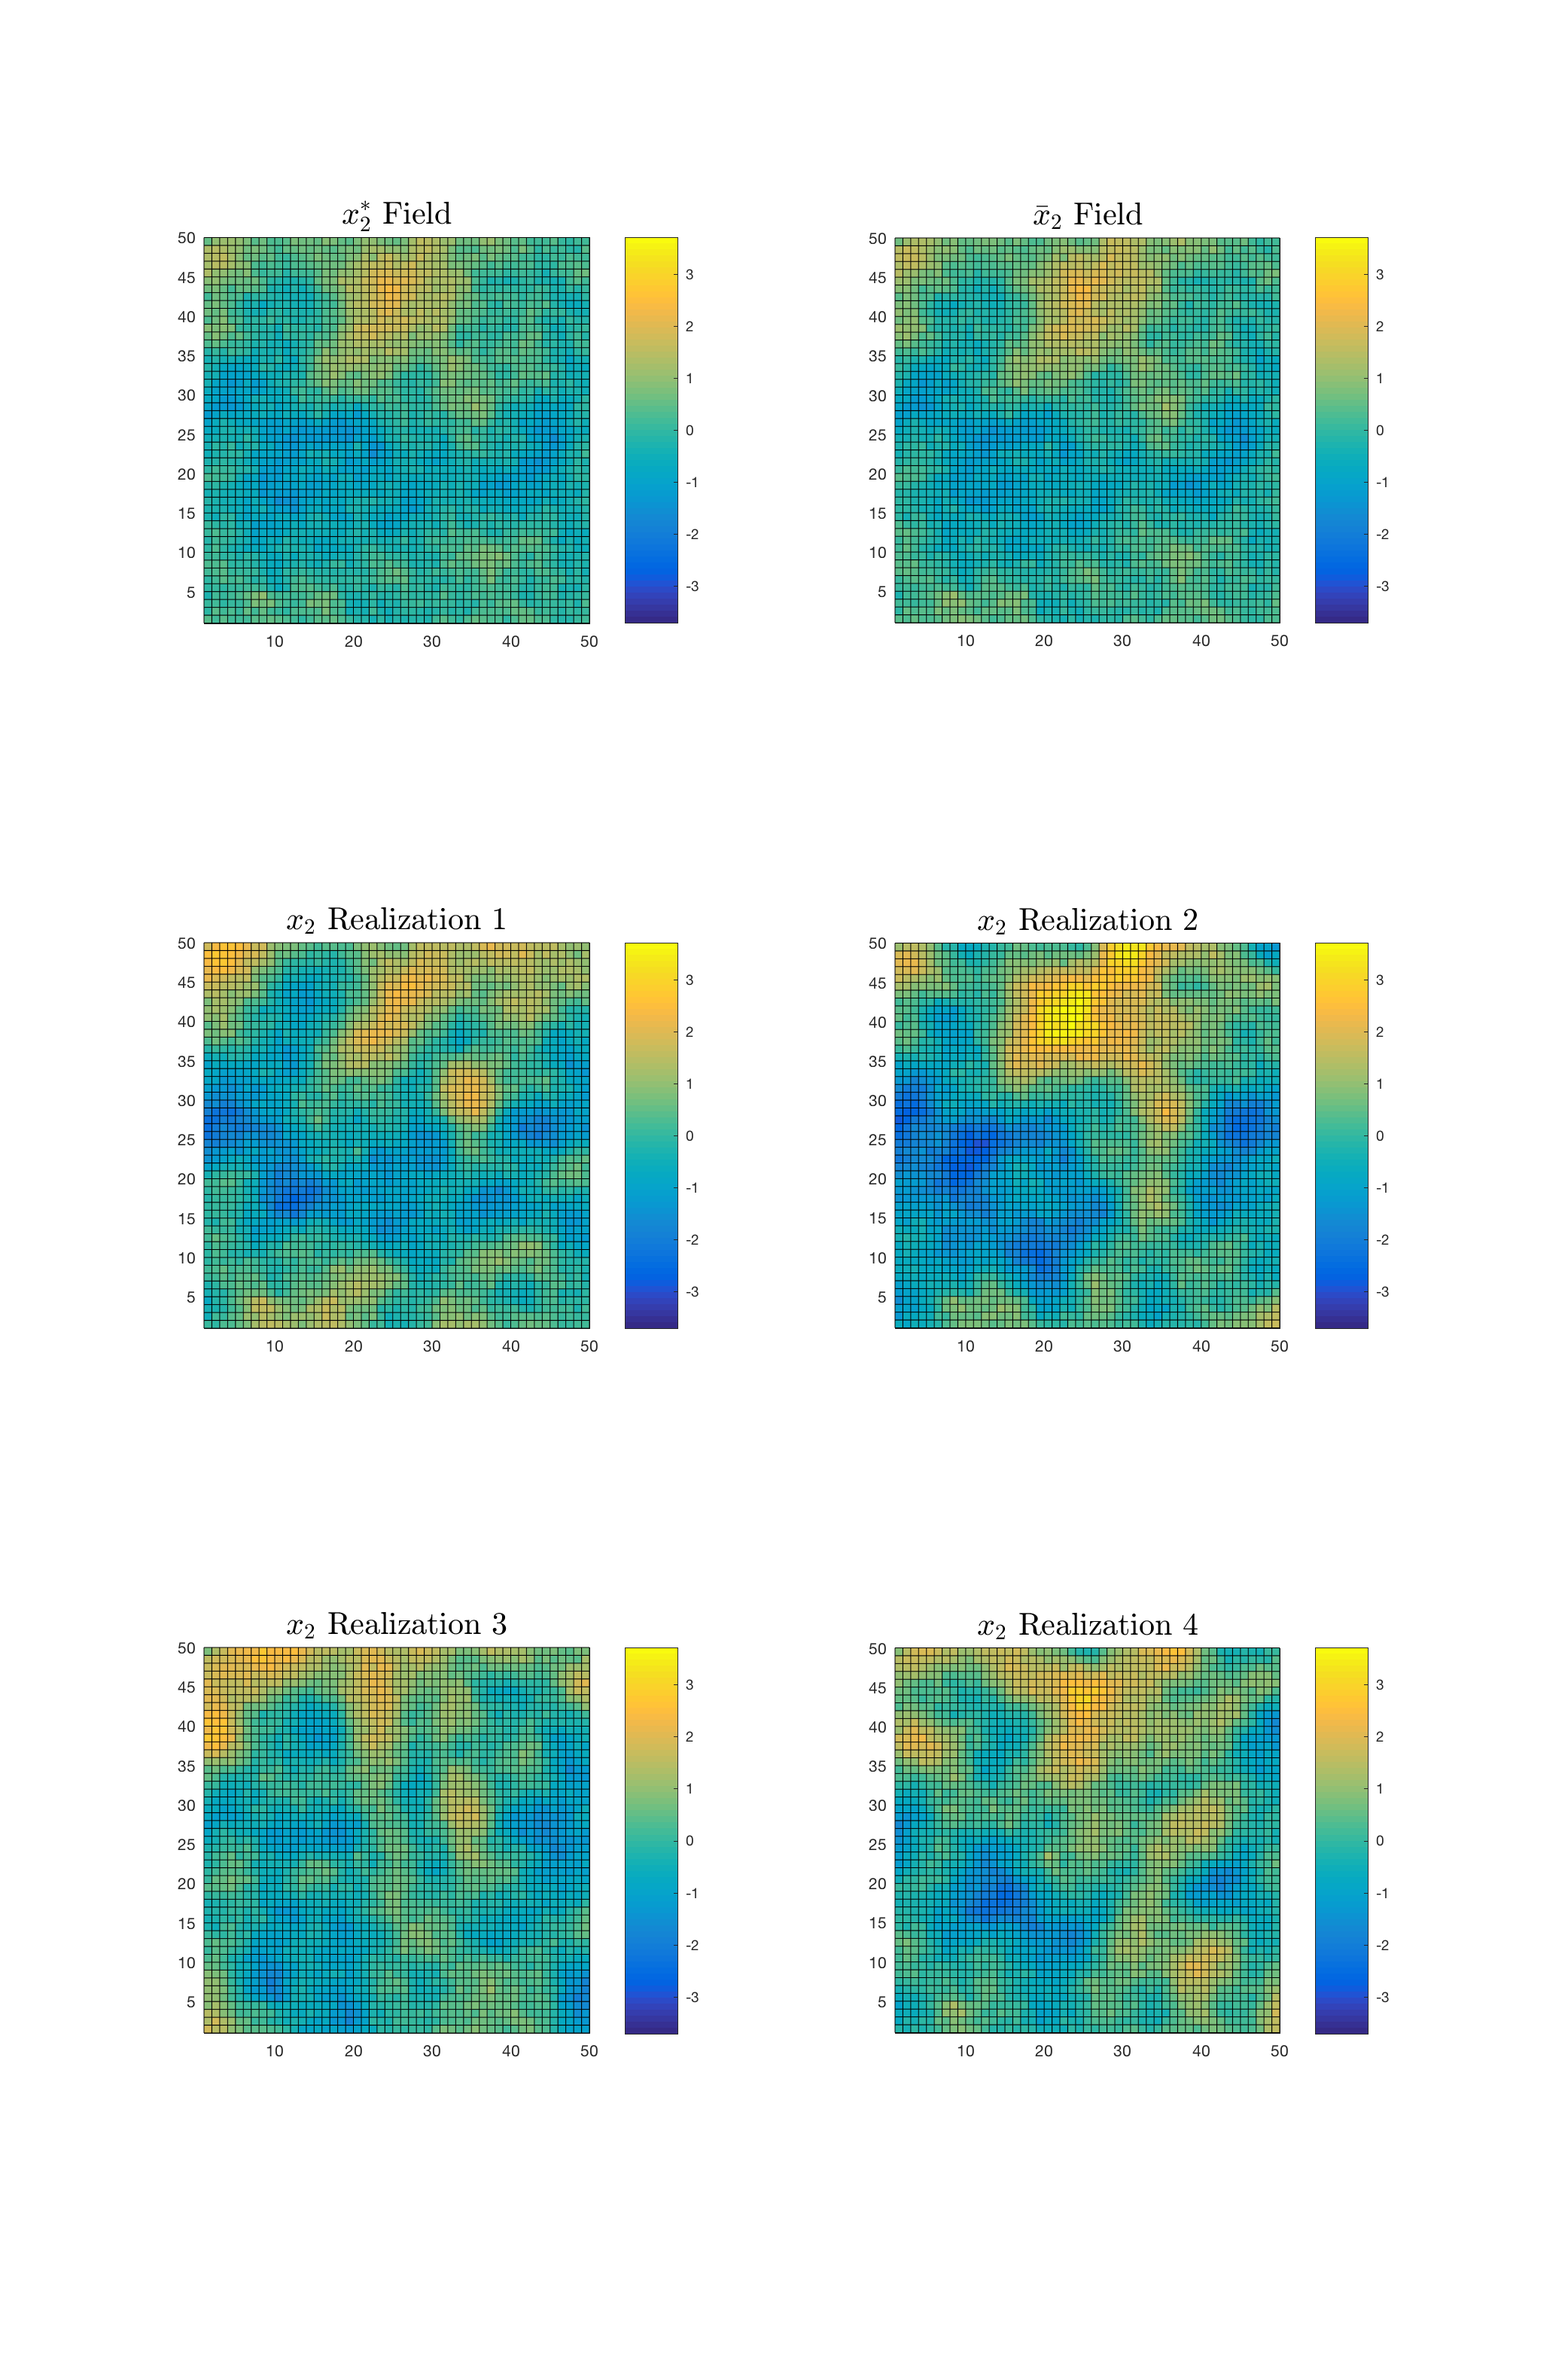
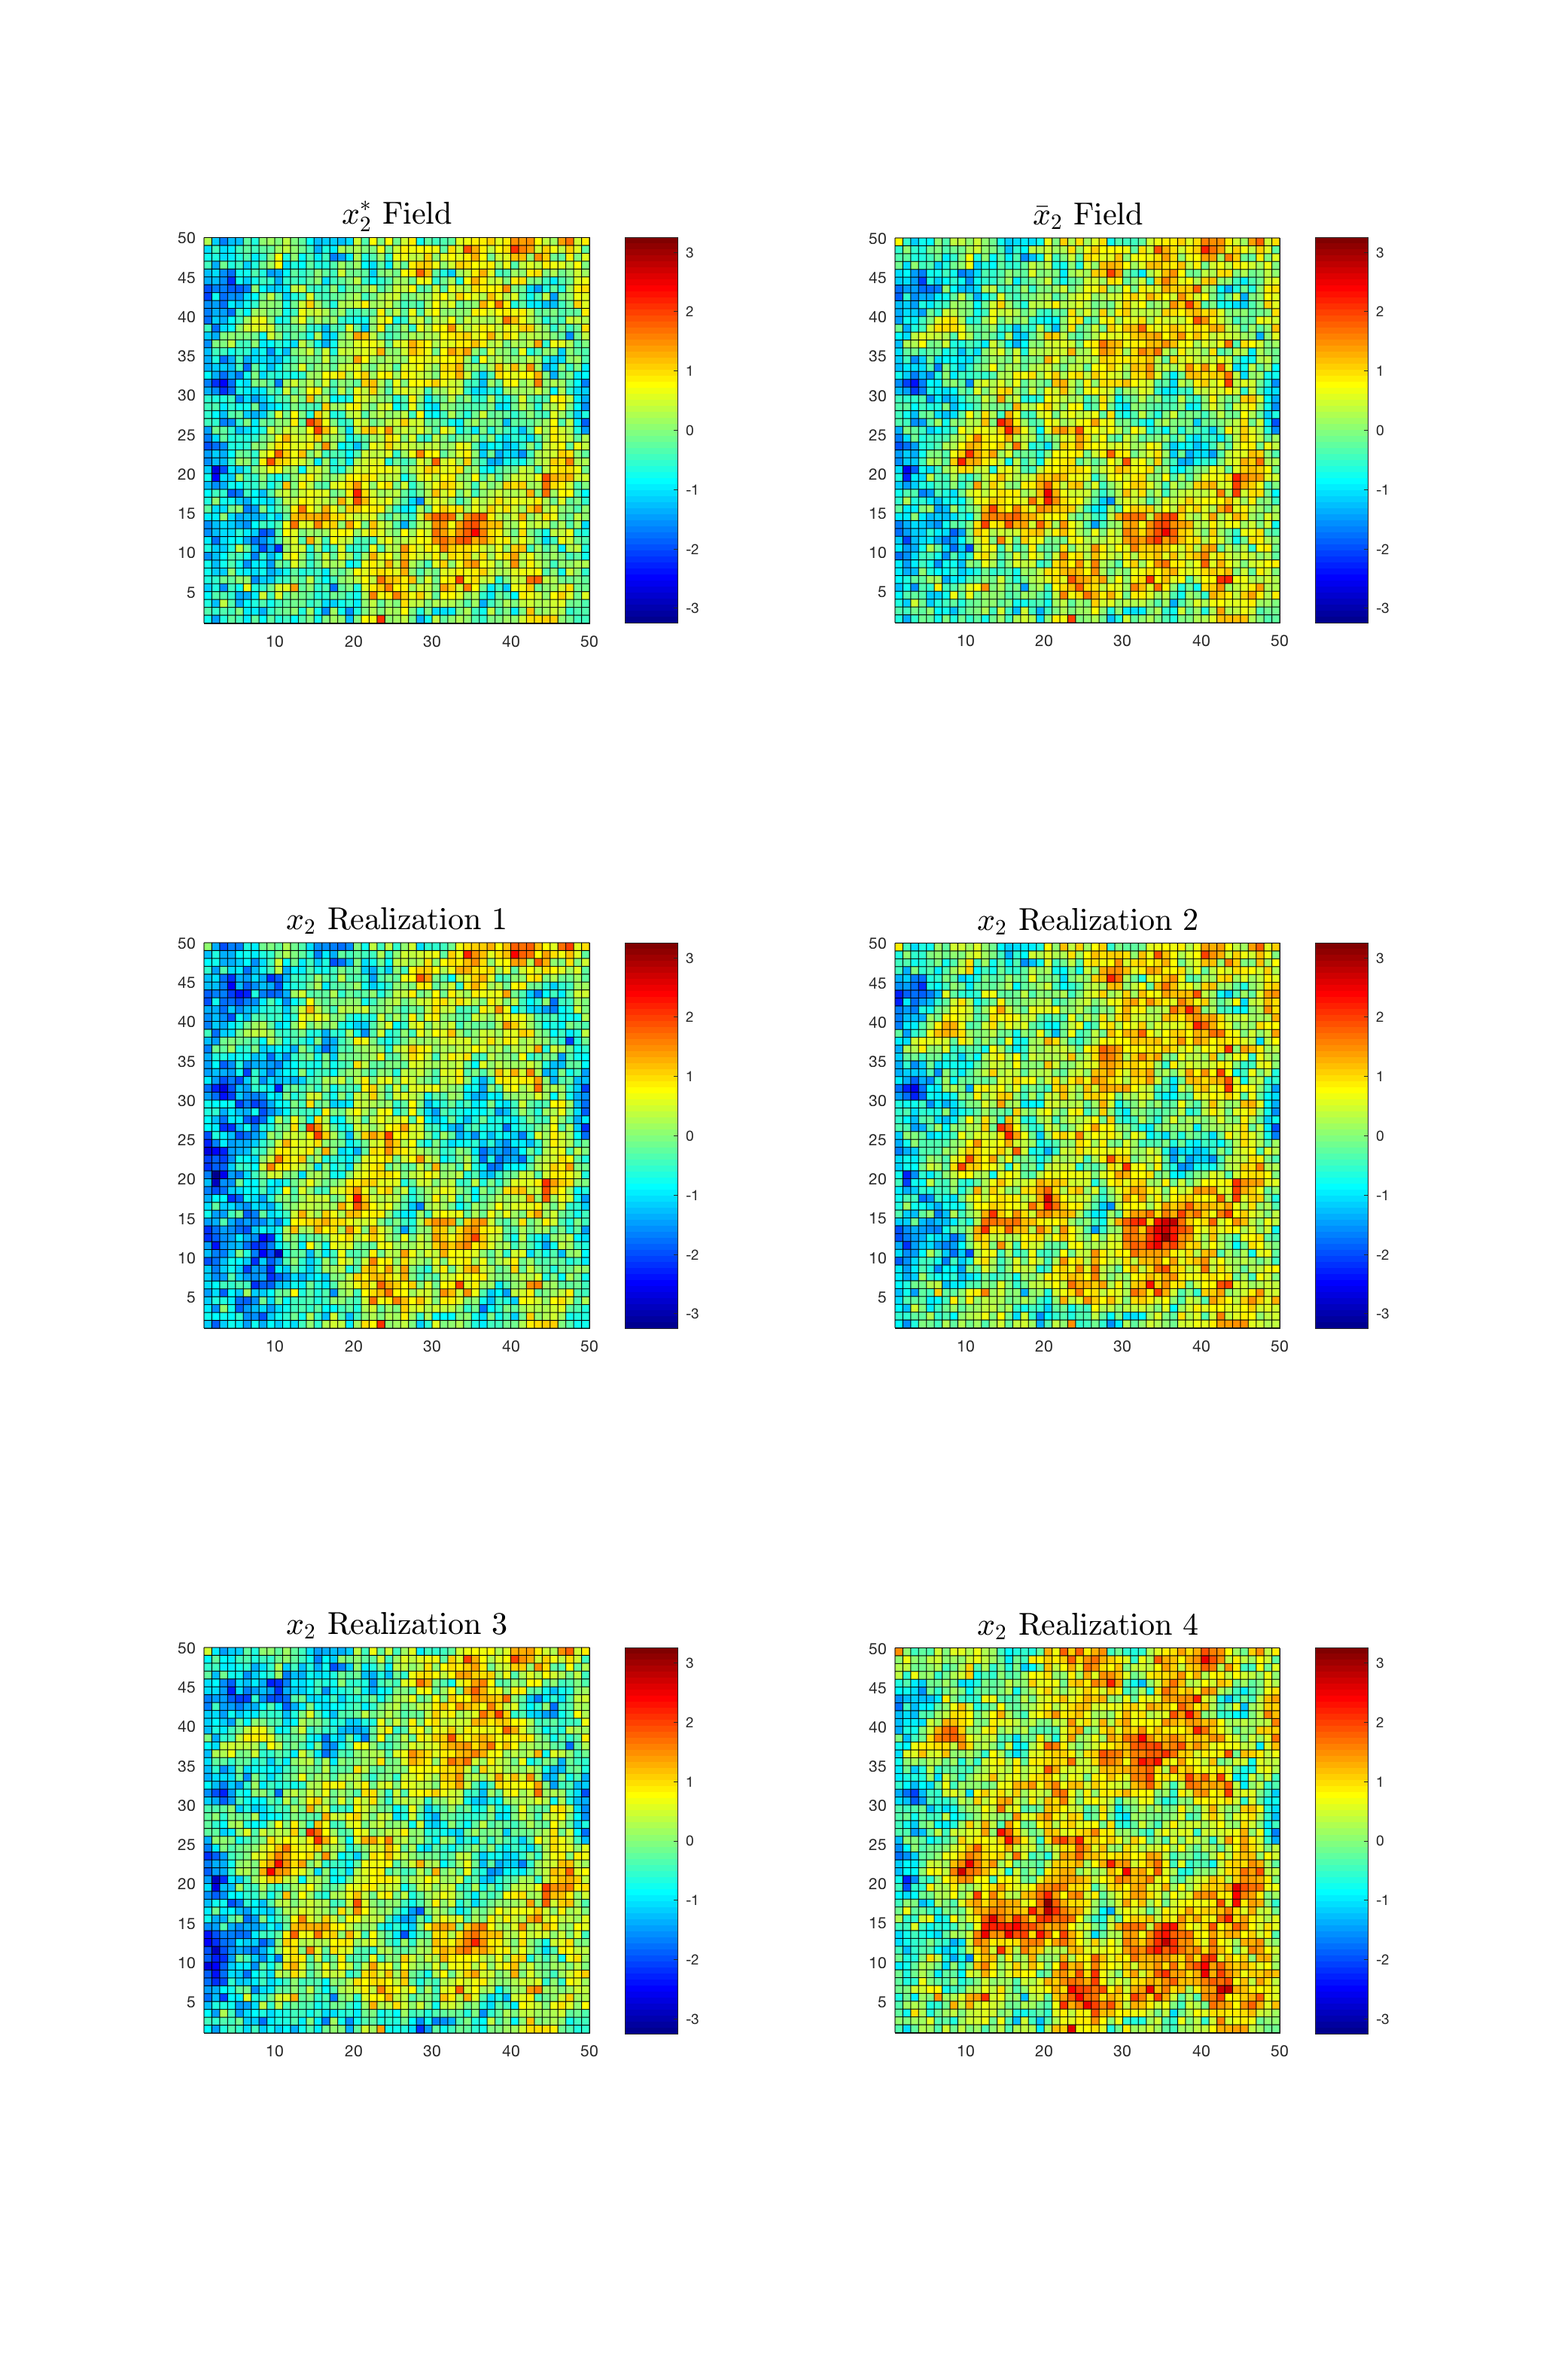
final tweaks and settings to pass off to dorit

diff --git a/code/makePlots.m b/code/makePlots.m
@@ -26,8 +26,8 @@ dist = reshape(sqrt((x1-x1').^2+(y1-y1').^2),n,1);
 checkExp = figure('visible','off','Position', [10, 10, 1200, 600]);
 subplot(1,2,1);
 hold;
-plot(d(1:nx),'-ok');
-plot(d(1:nx).*lambda,'-or')
+plot(d(1:Nlambda),'-ok');
+plot(d(1:Nlambda).*lambda,'-or')
 legend('Raw eigenvalues', 'Lambda modfied eigenvalues');
 xlabel('Eigenvalue');
 ylabel('Magnitude');
@@ -48,23 +48,27 @@ print(checkExp,sprintf('%s/checkExp.png',plotDirectory),'-dpng')
 
 % Recreate Figure (3.d) in Paper
 singlePointCorr = figure('visible','off','Position', [10, 10, 1200, 600]);
-q = ceil(sqrt(n));
-D = sqrt(diag(SigSqr));
+
+D = sqrt(diag(CTrue));
 CorrMat = inv(diag(D)) * SigSqr * inv(diag(D))';
+
 subplot(1,2,1)
 PlotMat = reshape(CorrMat(:,20),q,q);
 tempSort = sort(PlotMat(:));
 plottingRange = [tempSort(1),tempSort(n-1)];
 pcolor(PlotMat)
+colormap(jet)
 caxis(plottingRange)
 title('Correlation to single point','interpreter','latex','FontSize',20)
 colorbar
 axis square
+
 subplot(1,2,2)
 PlotMat = reshape(CorrMat(:,1625),q,q);
 tempSort = sort(PlotMat(:));
 plottingRange = [tempSort(1),tempSort(n-1)];
 pcolor(PlotMat)
+colormap(jet)
 caxis(plottingRange)
 title('Correlation to single point','interpreter','latex','FontSize',20)
 colorbar
@@ -85,6 +89,7 @@ colorbar
 axis square
 subplot(3,2,2)
 pcolor(reshape(XensembleMean(:,1),q,q))
+colormap(jet)
 title('$$\bar x_1$$ Field','interpreter','latex','FontSize',20)
 caxis([-zRange,zRange])
 colorbar
@@ -92,6 +97,7 @@ axis square
 for i=1:4
 	subplot(3,2,i+2)
 	pcolor(reshape(XensembleSubMat(:,i),q,q))
+	colormap(jet)
 	title(sprintf('$$x_1$$ Realization %d', i),'interpreter','latex','FontSize',20)
 	caxis([-zRange,zRange])
 	colorbar
@@ -106,6 +112,7 @@ zRange = max(max(abs(XensembleSubMat)));
 
 subplot(3,2,1)
 pcolor(reshape(Xstar(:,2),q,q))
+colormap(jet)
 title('$$x^*_2$$ Field','interpreter','latex','FontSize',20)
 caxis([-zRange,zRange])
 colorbar
@@ -119,6 +126,7 @@ axis square
 for i=1:4
 	subplot(3,2,i+2)
 	pcolor(reshape(XensembleSubMat(:,i),q,q))
+	colormap(jet)
 	title(sprintf('$$x_2$$ Realization %d', i),'interpreter','latex','FontSize',20)
 	caxis([-zRange,zRange])
 	colorbar
@@ -131,22 +139,29 @@ print(xGen2,sprintf('%s/xGeneration2.png',plotDirectory),'-dpng')
 xProg = figure('visible','off','Position', [10, 10, 1000, 1000]);
 subplot(2,2,1)
 pcolor(reshape(Xstar(:,1),q,q))
-title('$$X^*_1$$ Field','interpreter','latex','FontSize',20)
+colormap(jet)
+title('$$x^*_1$$ Field','interpreter','latex','FontSize',20)
 colorbar
 axis square
+
 subplot(2,2,2)
 pcolor(reshape(XensembleMean(:,1),q,q))
-title('$$\bar X$$ Field','interpreter','latex','FontSize',20)
+colormap(jet)
+title('$$\bar x_1$$ Field','interpreter','latex','FontSize',20)
 colorbar
 axis square
+
 subplot(2,2,3)
 pcolor(reshape(U(:,1),q,q))
-title('$$U$$ Field','interpreter','latex','FontSize',20)
+colormap(jet)
+title('$$u_1^{(1)}$$ Field','interpreter','latex','FontSize',20)
 colorbar
 axis square
+
 subplot(2,2,4)
 pcolor(reshape(XensembleMean(:,1),q,q))
-title('$$X_1 = X^*_1 + U$$ Field','interpreter','latex','FontSize',20)
+colormap(jet)
+title('$$x_1^{(1)} = x^*_1 + u_1^{(1)}$$ Field','interpreter','latex','FontSize',20)
 colorbar
 axis square
 print(xProg,sprintf('%s/xprogression.png',plotDirectory),'-dpng')
@@ -154,18 +169,20 @@ print(xProg,sprintf('%s/xprogression.png',plotDirectory),'-dpng')
 
 
 % the y sum progression
-zRange = max(max(abs(Yobs)));
+zRange = max(max(abs(y)));
 yProg = figure('visible','off','Position', [10, 10, 1000, 1500]);
 title('Y Generation Progression')
 subplot(3,2,1)
-pcolor(reshape(Ystar,q,q))
+pcolor(reshape(ystar,q,q))
+colormap(jet)
 title('$$y^* = x^* \beta$$ (True Field)','interpreter','latex','FontSize',20)
 colorbar
 axis square
 caxis([-zRange,zRange])
 
 subplot(3,2,2)
-pcolor(reshape(Yobs,q,q))
+pcolor(reshape(y,q,q))
+colormap(jet)
 title('$$y = \bar x \beta + \nu$$ (Observed Field)','interpreter','latex','FontSize',20)
 colorbar
 axis square
@@ -173,6 +190,7 @@ caxis([-zRange,zRange])
 
 subplot(3,2,3)
 pcolor(reshape(Xstar(:,1),q,q))
+colormap(jet)
 title('$$x^*_1$$ Field','interpreter','latex','FontSize',20)
 colorbar
 axis square
@@ -180,6 +198,7 @@ caxis([-zRange,zRange])
 
 subplot(3,2,4)
 pcolor(reshape(XensembleMean(:,1),q,q))
+colormap(jet)
 title('$$\bar x_1$$ Field','interpreter','latex','FontSize',20)
 colorbar
 axis square
@@ -187,6 +206,7 @@ caxis([-zRange,zRange])
 
 subplot(3,2,5)
 pcolor(reshape(Xstar(:,2),q,q))
+colormap(jet)
 title('$$x^*_2$$ Field','interpreter','latex','FontSize',20)
 colorbar
 axis square
@@ -195,6 +215,7 @@ caxis([-zRange,zRange])
 
 subplot(3,2,6)
 pcolor(reshape(XensembleMean(:,2),q,q))
+colormap(jet)
 title('$$\bar x_2$$ Field','interpreter','latex','FontSize',20)
 colorbar
 axis square

diff --git a/code/parameterList.m b/code/parameterList.m
@@ -11,7 +11,7 @@ plotDirectory ='figures';
 dataDirectory ='output';
 
 % set seed for reproducibility
-seed = 125;
+seed = 1231531;
 
 %%%%%%%%%%%%%%%%%%%%%%%%%%%%%
 % Problem Size/Dimensionality
@@ -32,12 +32,10 @@ L0 = 1000;
 M=2;
 
 % number of ensembles (eventually length M)
-L = 25;
+L = 5;
 
 % true regression parameters
 betaTrue = ones(M,1);
-
-
 
 %%%%%%%%%%%%%%%%%%%%%%%%%%%%%%%%%
 % (M1) Forced Response Simulation
@@ -45,12 +43,11 @@ betaTrue = ones(M,1);
 % currently using a matern spatial field as the true forced response
 
 % control the shape of the Matern for the true focings Xstar
-rangeX = [1,1/3];
-smoothnessX = [1,0.5];
+rangeX = [1.5,1/2];
+smoothnessX = [1.5,0.25];
 
-% scale the magnitudes of the foreced responses
-scaleX = [2,0.7];
-
+% set the relative magnitude of the forced responses
+magnitudeX = [1,1];
 
 %%%%%%%%%%%%%%%%%%%%%%%%%%%%%%%%%%%%%
 % (M2) Climate Variability Simulation
@@ -61,13 +58,13 @@ alphaC = 1;
 
 % currently using a eigen-perturbed exponential kernel
 % kernel scale
-dExp = 0.25;
+dExp = 5;
 
 % eigenvalue cutoff for variability generation
-nx = 100;    
+Nlambda = 100;    
 
 % the random factor e-value modification
-rng(250); lambda = unifrnd(0.5,1.5,nx,1).^2; % to replicate the figures
+rng(251); lambda = exp(unifrnd(-2.5,2.5,Nlambda,1)); 
 
 % whitening parameter for the climate variability covariance (0 is iid)
 delta = 1;
@@ -81,4 +78,4 @@ delta = 1;
 Nobs = 100;
 
 % measurement error on the observed Y
-sigmaW = repmat(0.25,1,n);
+rho = repmat(0.25,1,n);

diff --git a/code/generateSimulation.m b/code/generateSimulation.m
@@ -14,7 +14,7 @@ rng(seed)
 
 % interchangable code for different covariance generation schemes
 [x,y,Vin,din] = generateRecBasis(n,dExp);
-[V, d, Sig, SigSqr] = generateCovExact(n, nx, lambda, delta,Vin,din);
+[V, d, Sig, SigSqr] = generateCovExact(n, Nlambda, lambda, delta,Vin,din);
 
 % assign C for the simulation
 CTrue = SigSqr;
@@ -32,12 +32,17 @@ end
 
 % center and (standarize?) the xstars
 XstarCentered = (XstarRaw - repmat(mean(XstarRaw), size(XstarRaw,1), 1));
-XstarStd = XstarCentered;
 
-xScaleFactor = kron(scaleX,ones(n,1));
+xNorm = zeros(1,M);
+
+for i=1:M
+	xNorm(i) =  norm(XstarCentered(:,i));
+end
+
+xScalingMatrix = diag( (magnitudeX .* (xNorm/max(xNorm))).^(-1));
 
 % set the Xstar matrix for the simulation
-Xstar = xScaleFactor .* XstarStd;
+Xstar = XstarCentered * xScalingMatrix;
 
 %%%%%%%%%%%%%%%%%%%%%%%%%%%%%%%%%%%%%%%%%%%%%%%%%%%%%%%%%%%%%
 %% Simulate output given CTrue, Xstar, parameterList 
@@ -67,7 +72,7 @@ y = Xstar * betaTrue + u;
 
 % generate the observed climate response Yobs
 yExpand = kron(y,ones(1,Nobs));
-epsilon = mvnrnd(zeros(n,1), diag(sigmaW),Nobs)';
+epsilon = mvnrnd(zeros(n,1), diag(rho),Nobs)';
 
 yobs    = yExpand + epsilon;
 

diff --git a/code/presentationExperiments/maternExperimentation.m b/code/presentationExperiments/maternExperimentation.m
@@ -10,14 +10,12 @@ L=1; L0=1;
 % change the parameters of interest for the forced responses
 
 % control the shape of the Matern for the true focings Xstar
-alphax = [2,4];
-smoothnessx = [1.5,0.5];
+rangeX = [1.5,1/2];
+smoothnessX = [1.5,0.25];
 
 % scale the magnitudes of the foreced responses
-xscale = [1,1];
+magnitudeX = [1,1];
 
-% scaling factors as in Smith et al. 20xx
-gammaC = [0.5,0.6];
 
 seed=1231531;
 
@@ -28,19 +26,13 @@ generateSimulation
 %% First, reasonable, attempt at a hands-off method for balancing the magnitudes
 %% of the forced responses. 
 
-% get the average square of the fields
-x1Mag = mean(Xstar(:,1).^2);
-x2Mag = mean(Xstar(:,2).^2);
-
-xRatio = x1Mag/x2Mag;
-
 
 % plot the true, xstar fields to get a sense of the pattern and scale of the
 % two fields. Goal is two visually identifiable fields
 zRange = max(max(abs(Xstar)));
 checkForced = figure('visible','on','Position', [10, 10, 600, 1200]);
 subplot(2,1,1)
-pcolor(reshape(Xstar(:,1)/xRatio,q,q))
+pcolor(reshape(Xstar(:,1),q,q))
 caxis([-zRange,zRange])
 colorbar
 axis square

diff --git a/code/presentationExperiments/climVarExperimentation.m b/code/presentationExperiments/climVarExperimentation.m
@@ -8,8 +8,11 @@ L=1; L0=1;
 % change the parameters of interest for the climate variability
 
 % settings 1
-dExp = 5; nx = 100; rho = 1;
-rng(251); lambda = exp(unifrnd(-2.5,2.5,nx,1)); 
+dExp = 5; 
+Nlambda = 100;
+delta = 1;
+rng(251); 
+lambda = exp(unifrnd(-2.5,2.5,Nlambda,1)); 
 
 % settings 2
 
@@ -39,8 +42,8 @@ dist = reshape(sqrt((x1-x1').^2+(y1-y1').^2),n,1);
 checkExp = figure('visible','on','Position', [10, 10, 600, 1200]);
 subplot(2,1,1);
 hold;
-plot(log(d(1:nx)),'-ok');
-plot(log(d(1:nx).*lambda),'-or')
+plot(log(d(1:Nlambda)),'-ok');
+plot(log(d(1:Nlambda).*lambda),'-or')
 legend('Raw eigenvalues', 'Lambda modfied eigenvalues');
 xlabel('Eigenvalue');
 ylabel('Log-Magnitude');
